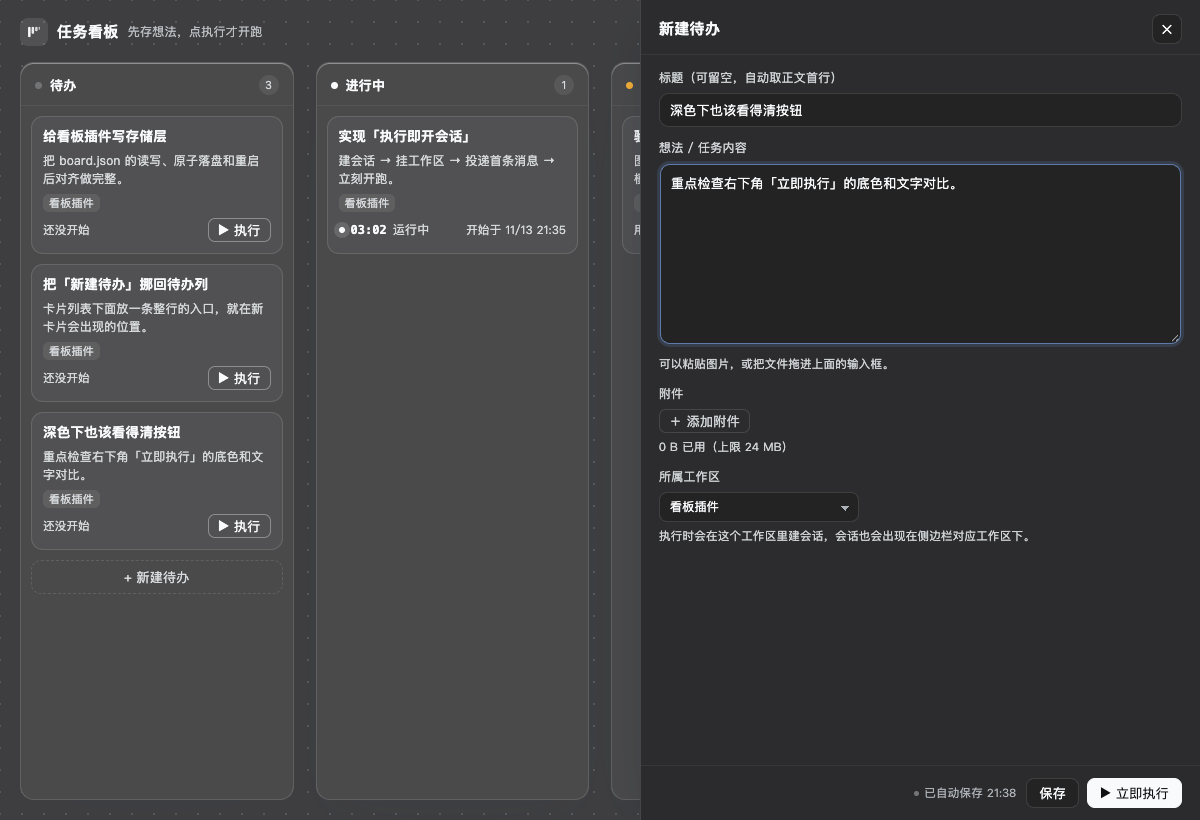
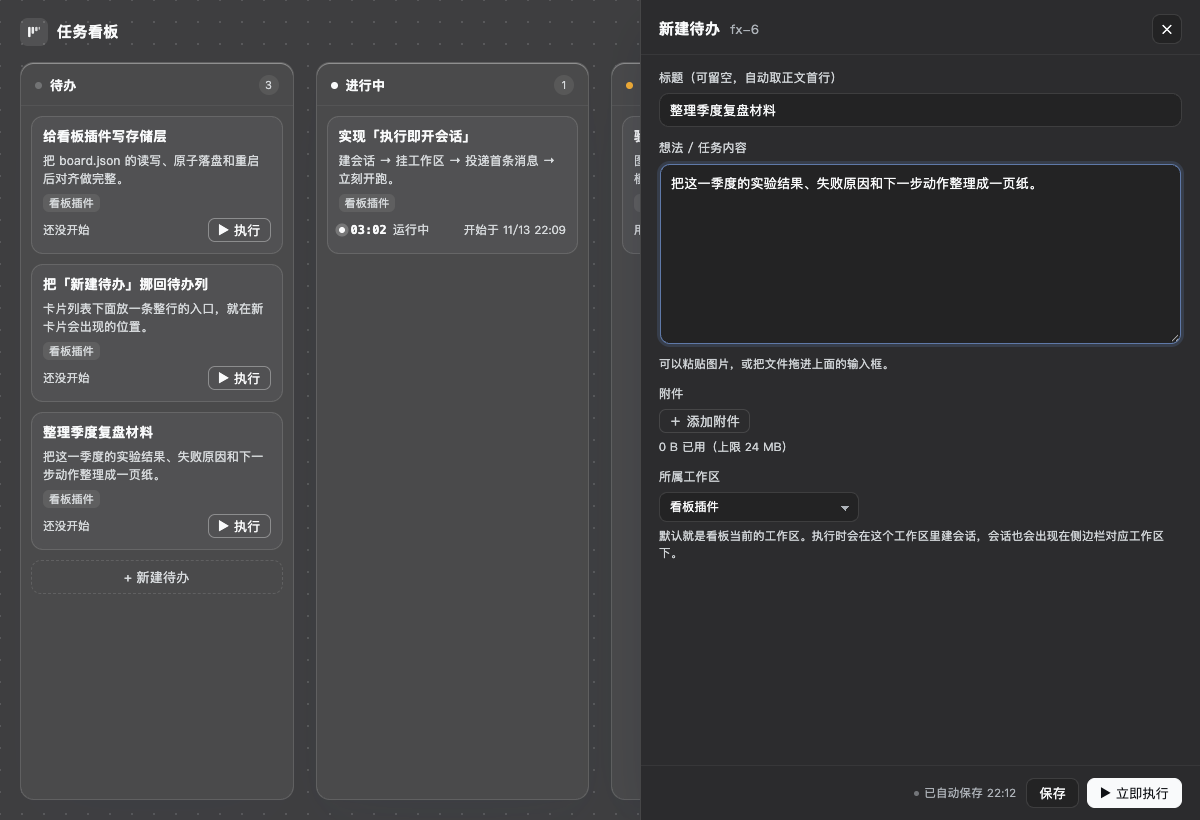
发布 v0.1.5：卡片短编号 fx-N（仅新建/编辑侧栏可见）

diff --git a/client.js b/client.js
@@ -369,6 +369,18 @@ window.__ModuleLoader__.load({
   border-bottom: 1px solid var(--fxk-border-soft);
 }
 .fxk-sheet-title { font-size: 15px; line-height: 22px; font-weight: 600; }
+/* 卡片编号：安静地跟在标题后面，像个文件编号；点一下复制 */
+.fxk-sheet-seq {
+  flex: none; align-self: center;
+  margin: -1px 0 0 -4px; padding: 1px 4px;
+  border: 0; border-radius: 5px; background: transparent;
+  font-family: var(--fxk-mono); font-size: 10.5px; line-height: 16px;
+  font-variant-numeric: tabular-nums; letter-spacing: .02em;
+  color: var(--fxk-text-3); cursor: copy; user-select: none;
+  transition: color 120ms, background 120ms;
+}
+.fxk-sheet-seq:hover { color: var(--fxk-text-2); background: var(--fxk-hover); }
+.fxk-sheet-seq:focus-visible { outline: 2px solid color-mix(in srgb, var(--fxk-link) 45%, transparent); outline-offset: 1px; }
 .fxk-sheet-body { flex: 1; min-height: 0; overflow-y: auto; padding: 14px 18px 18px; display: flex; flex-direction: column; gap: 12px; }
 .fxk-sheet-foot {
   flex: none; display: flex; align-items: center; gap: 8px;
@@ -559,6 +571,12 @@ window.__ModuleLoader__.load({
       return text.length > 220 ? `${text.slice(0, 220)}…` : text
     }
 
+    /** 卡片编号：对用户显示成 fx-1、fx-2……；还没落库的草稿没有编号。 */
+    function cardSeqLabel(card) {
+      const seq = Number(card && card.seq)
+      return Number.isInteger(seq) && seq > 0 ? `fx-${seq}` : ''
+    }
+
     function readAsBase64(file) {
       return new Promise((resolve, reject) => {
         const reader = new FileReader()
@@ -570,6 +588,29 @@ window.__ModuleLoader__.load({
         reader.onerror = () => reject(new Error(t('读取文件失败', 'Could not read the file')))
         reader.readAsDataURL(file)
       })
+    }
+
+    /** 复制一段短文本：优先异步剪贴板，不行就退回选中复制；都失败返回 false。 */
+    async function copyText(text) {
+      try {
+        await navigator.clipboard.writeText(text)
+        return true
+      } catch {}
+      try {
+        const area = document.createElement('textarea')
+        area.value = text
+        area.setAttribute('readonly', '')
+        area.style.position = 'fixed'
+        area.style.top = '-1000px'
+        area.style.opacity = '0'
+        document.body.appendChild(area)
+        area.select()
+        const copied = document.execCommand('copy')
+        area.remove()
+        return copied
+      } catch {
+        return false
+      }
     }
 
     // ----------------------------------------------------------------- panel
@@ -1205,6 +1246,8 @@ window.__ModuleLoader__.load({
       const [dragging, setDragging] = useState(false)
       // 第一次自动保存后卡片就落库了，之后都走 update
       const [savedId, setSavedId] = useState(card ? card.id : null)
+      // 卡片短编号（fx-N）由 Host 在落库时分配；草稿阶段还没有
+      const [savedSeq, setSavedSeq] = useState(card && card.seq ? Number(card.seq) : null)
       const [auto, setAuto] = useState({ kind: 'idle', at: 0 })
       const fileRef = useRef(null)
       const addedRef = useRef(added)
@@ -1255,6 +1298,7 @@ window.__ModuleLoader__.load({
               if (!saved) throw new Error(t('保存失败', 'Save failed'))
               savedIdRef.current = saved.id
               setSavedId(saved.id)
+              if (saved.seq) setSavedSeq(Number(saved.seq))
               // 落库到别的工作区时，让看板视图跟过去（同工作区时父层直接 no-op）
               onSavedRef.current?.(saved)
               // 附件这次已经落库：把「待上传」转成「已在库」，避免每 8 秒重传 base64
@@ -1390,7 +1434,14 @@ window.__ModuleLoader__.load({
               await post('run', { id: saved.id }, { silent: true })
               notify({ text: t('已开始执行，卡片进入进行中', 'Started — the card is now running') })
             } else {
-              notify({ text: mode === 'edit' ? t('已保存', 'Saved') : t('已保存为待办', 'Saved to To do') })
+              const seqLabel = mode === 'edit' ? '' : cardSeqLabel(saved)
+              notify({
+                text: seqLabel
+                  ? t(`已保存为待办 · ${seqLabel}`, `Saved to To do · ${seqLabel}`)
+                  : mode === 'edit'
+                    ? t('已保存', 'Saved')
+                    : t('已保存为待办', 'Saved to To do'),
+              })
             }
             dirtyRef.current = false
             onClose()
@@ -1443,6 +1494,17 @@ window.__ModuleLoader__.load({
       }, [card, busy, post, notify, onClose])
 
       const heading = mode === 'edit' ? t('编辑待办', 'Edit card') : t('新建待办', 'New card')
+      const seqText = savedSeq ? `fx-${savedSeq}` : ''
+      const copySeq = () => {
+        if (!seqText) return
+        void copyText(seqText).then((ok) => {
+          notify({
+            text: ok
+              ? t(`已复制编号 ${seqText}`, `Copied ${seqText}`)
+              : t(`复制失败，编号 ${seqText}`, `Copy failed — ${seqText}`),
+          })
+        })
+      }
       const autoText =
         auto.kind === 'saving'
           ? t('自动保存中…', 'Auto-saving…')
@@ -1477,6 +1539,19 @@ window.__ModuleLoader__.load({
             'header',
             { className: 'fxk-sheet-head' },
             h('span', { className: 'fxk-sheet-title' }, heading),
+            seqText
+              ? h(
+                  'button',
+                  {
+                    type: 'button',
+                    className: 'fxk-sheet-seq',
+                    title: t('卡片编号，点一下复制', 'Card number — click to copy'),
+                    'aria-label': t(`复制卡片编号 ${seqText}`, `Copy card number ${seqText}`),
+                    onClick: copySeq,
+                  },
+                  seqText,
+                )
+              : null,
             h('span', { className: 'fxk-sheet-spacer' }),
             h('button', { type: 'button', className: 'fxk-btn fxk-btn-icon', disabled: Boolean(busy), 'aria-label': t('关闭', 'Close'), onClick: close }, '✕'),
           ),

diff --git a/index.js b/index.js
@@ -90,6 +90,7 @@ function normalizeSettings(config) {
 function viewOf(card) {
   return {
     id: card.id,
+    seq: Number.isInteger(card.seq) && card.seq > 0 ? card.seq : null,
     title: card.title,
     body: card.body,
     workspaceId: card.workspaceId,
@@ -117,7 +118,7 @@ function viewOf(card) {
 }
 
 function emptyStore() {
-  return { version: STORE_VERSION, rev: 1, lastWorkspaceId: null, cards: {} }
+  return { version: STORE_VERSION, rev: 1, nextSeq: 1, lastWorkspaceId: null, cards: {} }
 }
 
 function loadStore(file) {
@@ -130,6 +131,7 @@ function loadStore(file) {
       if (!card || typeof card !== 'object') continue
       cards[id] = {
         id,
+        seq: null,
         title: textOf(card.title, 120) || '未命名事项',
         body: typeof card.body === 'string' ? card.body : '',
         workspaceId: typeof card.workspaceId === 'string' && card.workspaceId ? card.workspaceId : null,
@@ -146,9 +148,31 @@ function loadStore(file) {
         error: typeof card.error === 'string' && card.error ? card.error : null,
       }
     }
+    // 卡片编号（fx-N）：先收下旧数据里已有的编号，缺的按创建时间补一轮。
+    // 编号只增不复用：删掉卡片后留下的空号不会再发给下一张卡。
+    const ordered = Object.values(cards).sort(
+      (left, right) => left.createdAt - right.createdAt || String(left.id).localeCompare(String(right.id)),
+    )
+    const used = new Set()
+    for (const card of ordered) {
+      const seq = Number(parsed.cards[card.id]?.seq)
+      if (Number.isInteger(seq) && seq > 0 && !used.has(seq)) {
+        card.seq = seq
+        used.add(seq)
+      }
+    }
+    let highest = 0
+    for (const seq of used) highest = Math.max(highest, seq)
+    for (const card of ordered) {
+      if (card.seq) continue
+      highest += 1
+      card.seq = highest
+    }
+    const storedNext = Number(parsed.nextSeq)
     return {
       version: Number(parsed.version) || STORE_VERSION,
       rev: Number(parsed.rev) || 1,
+      nextSeq: Number.isInteger(storedNext) && storedNext > highest + 1 ? storedNext : highest + 1,
       lastWorkspaceId: typeof parsed.lastWorkspaceId === 'string' ? parsed.lastWorkspaceId : null,
       cards,
     }
@@ -486,10 +510,18 @@ export function apply(ctx, config) {
     return card
   }
 
+  /** 给新卡片分配短编号（对用户显示为 fx-N）。只增不减，删卡不回收。 */
+  function allocateSeq() {
+    const seq = Number.isInteger(store.nextSeq) && store.nextSeq > 0 ? store.nextSeq : 1
+    store.nextSeq = seq + 1
+    return seq
+  }
+
   async function createCard(input, run) {
     const attachments = await saveAttachments(input?.attachments)
     const card = {
       id: `card-${randomUUID()}`,
+      seq: allocateSeq(),
       title: deriveTitle(input?.title, input?.body),
       body: textOf(input?.body, settings.maxBodyChars),
       workspaceId: typeof input?.workspaceId === 'string' && input.workspaceId ? input.workspaceId : null,

diff --git a/README.md b/README.md
@@ -40,6 +40,8 @@ DeepSeek Harness（DSH）Web 插件的任务看板：侧边栏一个入口，四
 
 ![新建待办：底部有自动保存状态，右侧是保存 / 立即执行两个出口](doc/界面%20-%202026-11-13/新建待办.png)
 
+标题旁那个灰色的 `fx-6` 就是卡片编号：草稿第一次自动保存后出现，点一下可复制，看板卡片上不显示（见下文「卡片编号」）。
+
 > 这些图是用真实 `client.js` 的 CSS + 组件树在静态页中渲染出来的自查图（假数据），不是应用内截图；
 > 应用内以浅/深色 token 实际值为准。
 
@@ -90,10 +92,21 @@ dsh plugin --profile desktop add link:/Users/xianglifei/Code/Github/dsh-kanban-f
 - 如果这张卡片在 Host 侧真的没了（被删掉 / 数据被换过），下一次自动保存会自动新建一张兜底，不会一直报「卡片不存在」。
 - 侧栏底部一直显示状态：`自动保存已开启` / `有改动，稍后自动保存` / `自动保存中…` / `已自动保存 21:13`。
 
+## 卡片编号
+
+每张卡片落库时会拿到一个短编号，对用户显示为 `fx-1`、`fx-2`……（数据里只存数字 `seq`，`fx-` 是显示前缀）。
+
+- 只出现在**新建 / 编辑待办的侧栏标题旁**：灰色小字，安静地跟在「新建待办」后面，不占看板卡片的位置；
+- 草稿在第一次自动保存（或点「保存」）后才拿到编号，拿到后标题旁会即时出现；
+- 点一下编号即可复制，以后在会话里可以直接说「处理 fx-12」；
+- **只增不复用**：删掉 `fx-3` 之后，下一张新卡仍是 `fx-4`，空号不会回收；
+- 旧数据第一次加载时按创建时间补号（1、2、3……），之后保持不变；编号存在 `board.json` 里，重启不重排。
+
 ## 数据
 
 - 看板数据：`$DSH_HOME/dsh-kanban-fx/board.json`（默认 `~/.dsh/dsh-kanban-fx/board.json`）。
   卸载插件后数据仍留在磁盘上。
+- 卡片编号：卡片上有 `seq`（数字），看板文件顶层有 `nextSeq`（下一个可用号），两者一起保证编号不重号、不复用。
 - 附件：走 DSH 自己的附件服务（和新建会话输入框同一套落盘），卡片里只存引用。
 - 单张卡片附件总量上限 24 MB，单张卡片正文上限 20 万字符（可在 `cordis.patch.yml` 里改）。
 

diff --git a/CHANGELOG.md b/CHANGELOG.md
@@ -1,5 +1,14 @@
 # 变更记录
 
+## 0.1.5 — 2026-11-13
+
+- 新增卡片短编号 `fx-N`：新建卡片落库时由 Host 分配，只增不复用，删卡不回收空号；
+  编号存为数字 `seq`，`board.json` 顶层记 `nextSeq`，重启后继续接着发。
+- 旧数据第一次加载时按创建时间补号（1、2、3……），补完保持稳定，不随列表排序变化。
+- 编号目前只出现在「新建 / 编辑待办」侧栏标题旁：灰色小字，点一下复制，看板卡片上不显示；
+  草稿在第一次自动保存后拿到编号，手动保存的 toast 也会带上它。
+- README 补「卡片编号」说明与数据字段；版本号同步到 0.1.5。
+
 ## 0.1.4 — 2026-11-13
 
 - 首次公开发布：源码托管到 GitHub 公开仓库 `xianglifei/dsh-kanban-fx`，采用 MIT 许可。
